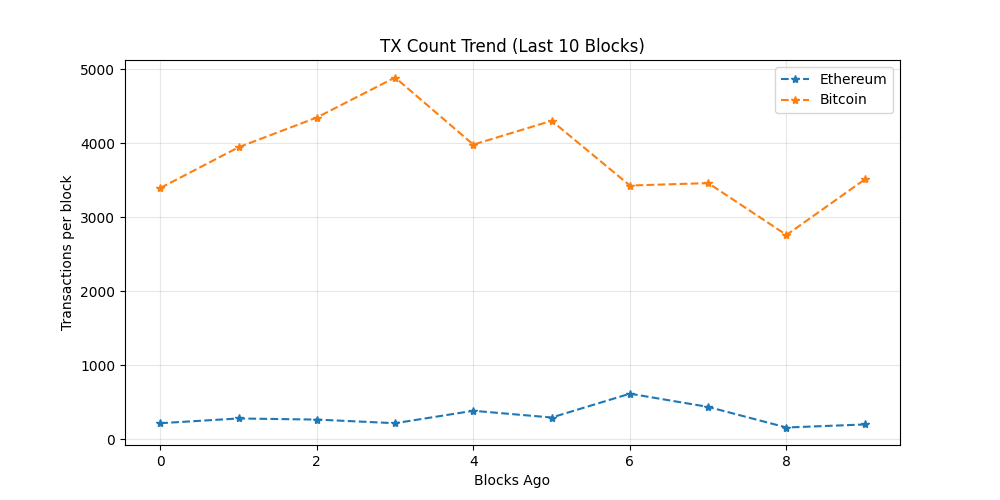
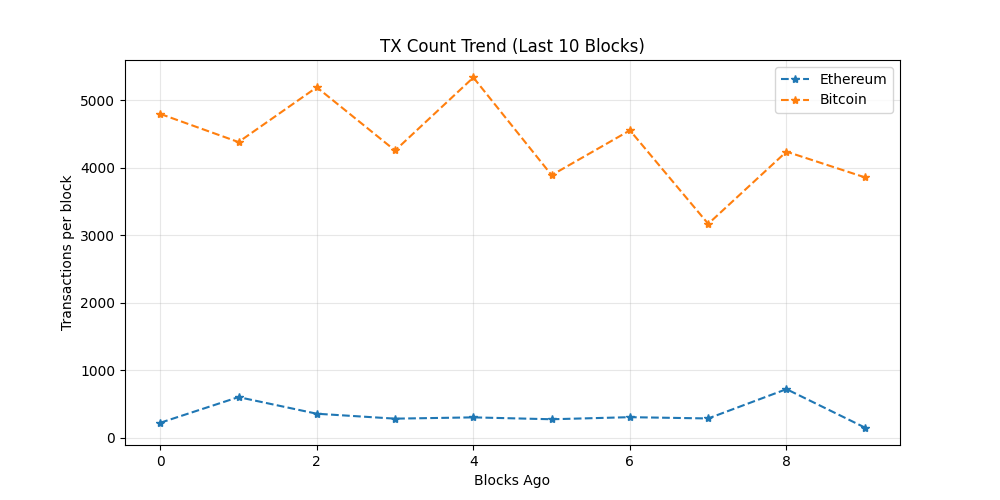
chore: update on-chain dashboard

diff --git a/README.md b/README.md
@@ -19,7 +19,7 @@ The README itself acts as the dashboard and is regenerated automatically on a 6 
 demonstrating a production-style, infrastructure-focused observability workflow rather
 than a traditional UI-driven approach.
 
-_Last updated: 2026-07-06 15:54 UTC_
+_Last updated: 2026-07-06 20:13 UTC_
 
 ## API Usage (GetBlock.io)
 - Calls used: **24**
@@ -27,8 +27,8 @@ _Last updated: 2026-07-06 15:54 UTC_
 ## Network Metrics
 | Chain | Block Height | TX Count | TPS (10 blk avg) | Block Util | Avg Fee |
 |------|-------------|----------|------------------|------------|---------|
-| Ethereum | 25474514 | 202 | 16.83 | 45.26% | 0.3 Gwei |
-| Bitcoin | 956933 | 3513 | 18.99 | 99.79% | N/A |
+| Ethereum | 25475808 | 154 | 12.83 | 19.6% | 0.2 Gwei |
+| Bitcoin | 956950 | 3859 | 1.21 | 99.8% | N/A |
 
 ## Visuals
 ### Transactions Trend
@@ -43,11 +43,11 @@ _Last updated: 2026-07-06 15:54 UTC_
 ## Whale Alerts (latest block)
 - Transaction hashes are truncated for readability.
 - Full hashes are available in `dashboards/metrics.json`
-- Bitcoin | 130.55 BTC | `2426da90b6ec…`
-- Bitcoin | 461.11 BTC | `653c686fc0c7…`
-- Bitcoin | 411.96 BTC | `41bd4ce609bd…`
-- Bitcoin | 181.06 BTC | `2570145d64ea…`
-- Bitcoin | 271.89 BTC | `df59ee9ef785…`
+- Bitcoin | 111.46 BTC | `71186c464861…`
+- Bitcoin | 246.34 BTC | `cfe6aed3525d…`
+- Bitcoin | 124.95 BTC | `1492f540d1d3…`
+- Bitcoin | 300.0 BTC | `dd6eb6397455…`
+- Bitcoin | 1037.73 BTC | `21b65759a9af…`
 
 ## Run locally
 
